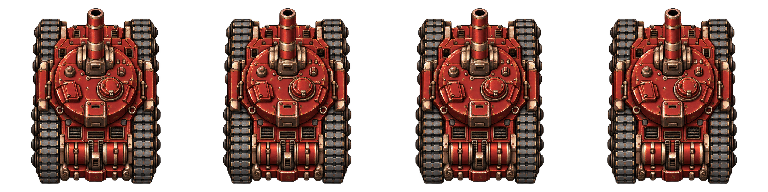
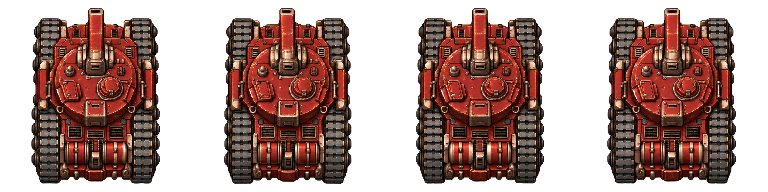
fix: correct red cannon perspective and unclipped blast effects

diff --git a/src/index.css b/src/index.css
@@ -10,7 +10,7 @@
   --gold: #e4bd79; --red: #ed8e78; --blue: #8ac8ea;
 }
 * { box-sizing: border-box; }
-body { margin: 0; min-width: 320px; }
+body { margin: 0; min-width: 320px; overflow-x: clip; }
 button, input, summary { font: inherit; }
 button, summary { touch-action: manipulation; }
 button { color: inherit; cursor: pointer; }
@@ -20,7 +20,7 @@ button { transition: background-color 160ms, border-color 160ms, color 160ms; }
 button:disabled:not(.board-cell) { opacity: .48; }
 a { color: var(--muted); text-decoration: none; }
 a:hover { color: var(--gold); }
-.game-shell { min-height: 100dvh; max-width: 1320px; margin: auto; padding: 0 40px; }
+.game-shell { min-height: 100dvh; max-width: 1320px; margin: auto; padding: 0 40px; overflow-x: clip; }
 .command-header { min-height: 100px; display: flex; align-items: center; justify-content: space-between; gap: 20px; border-bottom: 1px solid var(--line); }
 .brand { display: flex; gap: 12px; align-items: center; background: none; border: 0; text-align: left; padding: 0; }
 .brand-mark { width: 44px; height: 44px; display: grid; place-content: center; font: 900 30px Georgia, serif; background: var(--gold); color: #1b2426; position: relative; clip-path: polygon(0 0, 100% 0, 100% 75%,75% 100%,0 100%); }
@@ -97,7 +97,8 @@ summary::-webkit-details-marker { display: none; }
 .board-wrap { position: relative; max-width: 590px; margin: auto; }
 .board-frame { padding: 0 12px; border: 2px solid #647069; background: linear-gradient(135deg,#313b3d,#1c252a); box-shadow: 0 12px 35px #0006,inset 0 0 0 3px #171d1e; }
 .board-topline, .board-bottomline { display: flex; align-items: center; justify-content: space-between; height: 30px; font: 8px monospace; letter-spacing: .08em; color: #bbc1b3; }
-.battlefield { position: relative; aspect-ratio: 1; width: 100%; overflow: hidden; isolation: isolate; border: 1px solid #70756a; background: #655b3a; }
+.battlefield { position: relative; aspect-ratio: 1; width: 100%; overflow: visible; isolation: isolate; border: 1px solid #70756a; background: #655b3a; }
+.battlefield-surface { position: absolute; inset: 0; overflow: hidden; pointer-events: none; }
 .battlefield.sea { background: #153b4b; border-color: #487582; }
 .terrain { position: absolute; inset: 0; background-size: cover; filter: brightness(.85) saturate(.72); pointer-events: none; }
 .sea .terrain { filter: brightness(.72) saturate(.8); }
@@ -116,8 +117,8 @@ summary::-webkit-details-marker { display: none; }
 .move-marker { display: block; position: absolute; left: 50%; top: 50%; transform: translate(-50%,-50%) rotate(45deg); width: 14px; height: 14px; border: 2px solid #e5efb0; background: #b1c47d50; box-shadow: 0 0 14px #e5efb030; }
 .last-move:not(.selected-cell) { background: #fae2a211; }
 .unit-layer, .effect-layer { position: absolute; inset: 0; pointer-events: none; }
-.unit-layer { z-index: 3; }
-.effect-layer { z-index: 5; }
+.unit-layer { z-index: 3; overflow: hidden; }
+.effect-layer { z-index: 5; overflow: visible; }
 .unit-position { position: absolute; width: 25%; height: 25%; transition-property: top,left; transition-timing-function: cubic-bezier(.45,0,.25,1); }
 .unit-rotator { position: absolute; inset: 0; transition-property: transform; transition-timing-function: ease-in-out; }
 .unit-body { position: absolute; width: 85%; height: 85%; top: 7.5%; left: 7.5%; filter: drop-shadow(3px 5px 2px #000a); }
@@ -147,8 +148,8 @@ summary::-webkit-details-marker { display: none; }
 .shell-light { position: absolute; top: -2px; left: -2px; width: 9px; height: 4px; border-radius: 50%; background: #fff5c6; box-shadow: 0 0 7px 3px #f4ac5c,0 0 17px 5px #ef894d99; transform: rotate(var(--heading)); }
 .shell-light i { position: absolute; top: 0; right: 4px; width: 32px; height: 3px; background: linear-gradient(90deg,transparent,#f0ad50bd,#ffe3a2); }
 .shell-light img { position: absolute; width: 30px; height: 30px; max-width: none; left: -18px; top: -13px; image-rendering: pixelated; z-index: 1; }
-.blast { position: absolute; width: 25%; height: 25%; }
-.blast-sprite { position: absolute; inset: -32%; background-size: 600% 100%; image-rendering: pixelated; animation: blast-frames .78s steps(6) forwards; }
+.blast { position: absolute; width: 25%; height: 25%; overflow: visible; }
+.blast-sprite { position: absolute; inset: -60%; background-size: 600% 100%; background-repeat: no-repeat; image-rendering: pixelated; animation: blast-frames .78s step-end forwards; }
 .impact-light { position: absolute; inset: -90%; background: radial-gradient(circle,#fff1bbd9 0,#edaf589e 20%,transparent 65%); mix-blend-mode: screen; animation: light-flash .35s ease-out forwards; }
 .sea .impact-light { background: radial-gradient(circle,#e9ffffc9,#96dcde79 20%,transparent 65%); }
 .shockwave { position: absolute; inset: 15%; border: 2px solid #ffe2ba; border-radius: 50%; animation: shockwave .5s ease-out forwards; }
@@ -211,7 +212,14 @@ summary::-webkit-details-marker { display: none; }
 @keyframes muzzle { to { background-position: 133.333333% 0; } }
 @keyframes dust-frames { to { background-position: 133.333333% 0; } }
 @keyframes barrel-recoil { 0%,100% { transform: translateY(0); } 25% { transform: translateY(4px); } }
-@keyframes blast-frames { to { background-position: 120% 0; } }
+@keyframes blast-frames {
+  0% { background-position: 0% 0; }
+  16.667% { background-position: 20% 0; }
+  33.333% { background-position: 40% 0; }
+  50% { background-position: 60% 0; }
+  66.667% { background-position: 80% 0; }
+  83.333%,100% { background-position: 100% 0; }
+}
 @keyframes suspension { 0%,100% { transform: translateY(0) rotate(-.35deg); } 50% { transform: translateY(1.2px) rotate(.35deg); } }
 @keyframes ship-roll { from { transform: translateX(-1px) rotate(-1deg); } to { transform: translateX(1px) rotate(1deg); } }
 @keyframes recoil { 0% { transform: translateY(0); } 22% { transform: translateY(5px); } 100% { transform: translateY(0); } }

diff --git a/src/components/Battlefield/BattleBoard.tsx b/src/components/Battlefield/BattleBoard.tsx
@@ -19,8 +19,10 @@ export default function BattleBoard(p: Props) {
   return <div className={`board-frame ${p.explosions.length ? 'impact-shake' : ''}`}>
     <div className="board-topline"><span>战区 / {THEMES[p.theme].codename}</span><span>04 × 04</span></div>
     <div className={`battlefield ${p.theme}`} aria-label="战术棋盘" data-testid="battlefield">
-      <div className="terrain" style={{ backgroundImage: `url(${art(`terrain-${p.theme}`)})` }} />
-      {p.theme === 'sea' && <div className="sea-shimmer" />}
+      <div className="battlefield-surface">
+        <div className="terrain" style={{ backgroundImage: `url(${art(`terrain-${p.theme}`)})` }} />
+        {p.theme === 'sea' && <div className="sea-shimmer" />}
+      </div>
       <div className="cell-grid">
         {Array.from({length: 16}, (_, index) => {
           const r = Math.floor(index / 4), c = index % 4, unit = p.grid[r][c];

diff --git a/src/constants/assets.tsx b/src/constants/assets.tsx
@@ -1,5 +1,7 @@
 import { PlayerColor } from '../types/game';
-export const art = (name: string) => `${import.meta.env.BASE_URL}art/${name}.webp`;
+// Changing an existing image must also invalidate previously cached copies on Pages.
+const ART_REVISIONS: Record<string, string> = { 'tank-red': '2', 'tank-red-drive': '2' };
+export const art = (name: string) => `${import.meta.env.BASE_URL}art/${name}.webp${ART_REVISIONS[name] ? `?v=${ART_REVISIONS[name]}` : ''}`;
 export const unitImage = (type: 'tank' | 'ship', color: PlayerColor) => art(`${type}-${color}`);
 export const ART_FILES = ['tank-red', 'tank-blue', 'ship-red', 'ship-blue',
   'tank-red-drive', 'tank-blue-drive', 'terrain-land', 'terrain-sea',

diff --git a/docs/UPGRADE_NOTES.md b/docs/UPGRADE_NOTES.md
@@ -45,6 +45,14 @@
 
 ## 后续精修边界
 
+### 2026-10-02 修复
+
+- 使用 ChatGPT 内置 imagegen 修正红色坦克四帧图集的炮管透视：炮管朝车头平伸，去除朝向镜头的圆形炮口。修图提示词保存在 `source-art/barrel-perspective-fix-prompt.txt`。
+- 把地形裁切与战斗特效分开；爆炸宽度为单格的 2.2 倍，特效可以越过棋盘边缘，整页只在视口边缘裁切。
+- 爆炸六帧使用明确的帧位置且不平铺，防止末帧跳回起始帧。
+- 浏览器实际陆战、海战和边缘命中验证：爆炸祖先到棋盘均不裁切；390px 手机视口下，爆炸边界超过棋盘右边界约 49px，同时页面宽度保持 390px。
+- 更新红方图集的资源版本，避免旧浏览器缓存继续显示错误炮管。
+
 当前动画来自 AI 生成的完整图集，统一共享缩放与中心锚点后已接入试玩。源稿中个别细节仍可能有轻微帧间变化；原稿与提示词均保留，可继续做针对性精修。声音为合成采样，后续若需要真实机械录音，可在同一声音资源层替换样本。
 
 截图保存在 `docs/screenshots/`。本次本地预览地址为 `http://127.0.0.1:4173/tank-tactics-game/`；公开地址为 `https://holynova.github.io/tank-tactics-game/`，由 GitHub Actions 发布。
